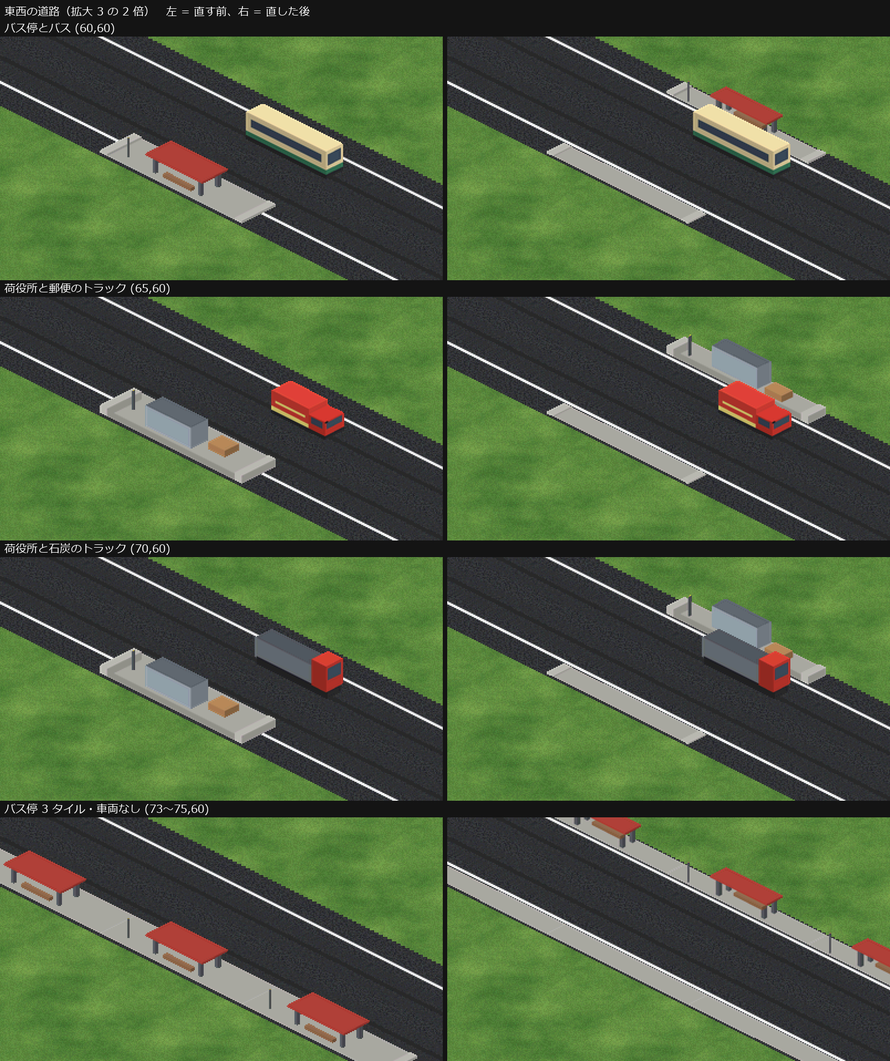
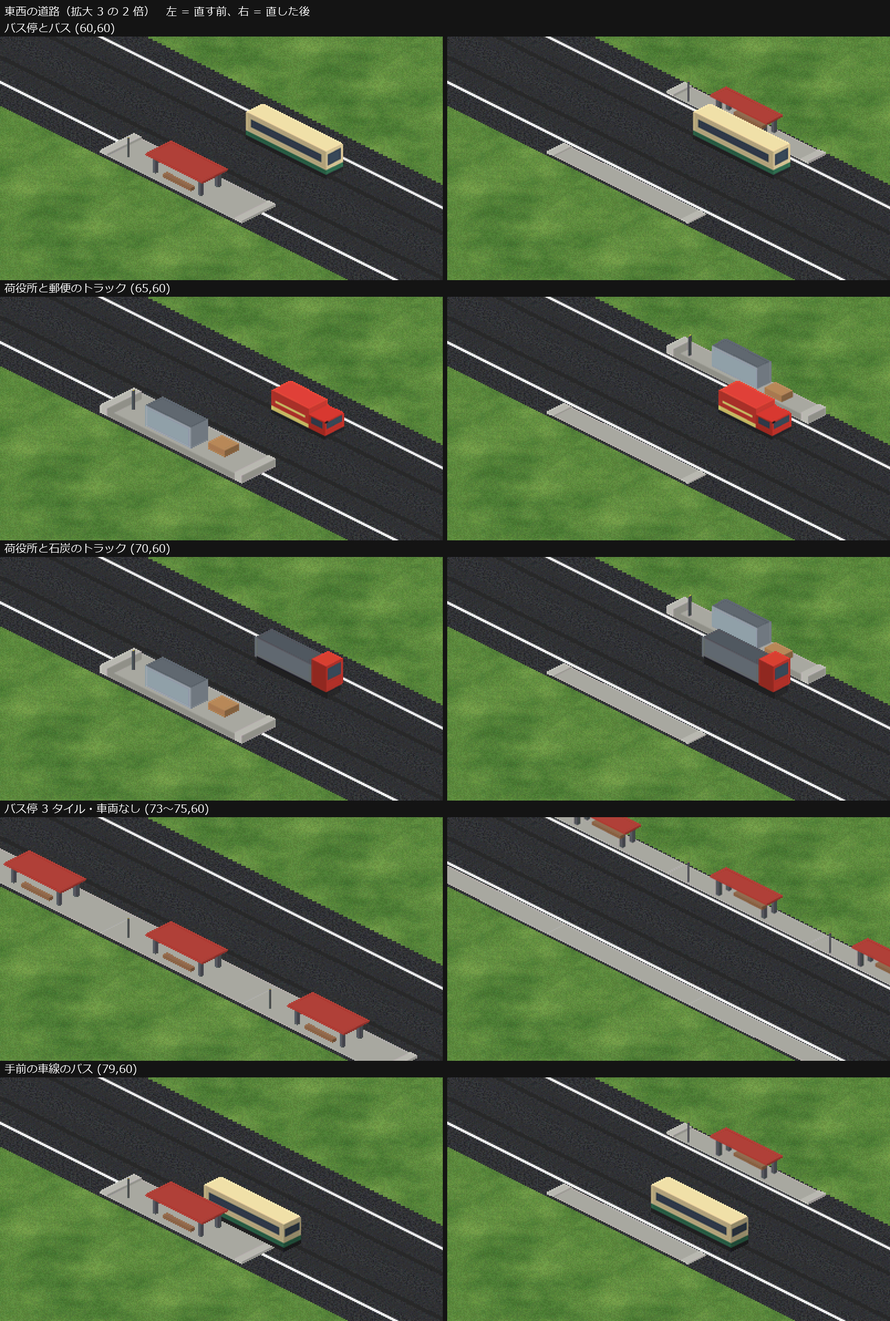
#115 の確かめに、手前の車線の車両と白線の画素の数えを足し、文書をそろえる

diff --git a/docs/records/2026-11-26_stop-overlap-screens/run.py b/docs/records/2026-11-26_stop-overlap-screens/run.py
@@ -2,6 +2,7 @@
 
 温帯（x<256）の平らな地図に、東西の道路と南北の道路を敷き、それぞれにバス停 1 つと荷役所 2 つを置いて、
 バス・郵便のトラック・石炭のトラックを、ダイヤの積載の待ち 100% で停めて撮る。車両を停めない 3 タイル続きの停留所も撮る。
+手前の車線にも停まるように、反対の端の車庫から西行き・南行きのバスを 1 台ずつ出す（左側通行）。
 
 使い方: python -X utf8 run.py <検証環境> <ポート> <出力フォルダ>
 """
@@ -37,6 +38,7 @@ os.makedirs(a.out, exist_ok=True)
 ROAD = "ami_road_local"
 EY = 60          # 東西の道路の y（x=52〜76）
 NX = 90          # 南北の道路の x（y=50〜74）
+NEAR_X, NEAR_Y = 79, 46  # 手前の車線に停めるバス停（東西の道路の x、南北の道路の y）
 # (停留所, 車両, 東西の道路の x, 南北の道路の y)。車庫から遠い停留所から先に出す
 PLAN = [
     ("pak256_truck_stop", "pak256_coal_truck", 70, 56),
@@ -75,8 +77,8 @@ def shot(g, name, x, y, zoom=3):
 
 
 with Game(a.env, "flat_512_left_v64", a.port) as g:
-    print("[way]", g.road(52, EY, 76, EY, ROAD))
-    print("[way]", g.road(NX, 50, NX, 74, ROAD))
+    print("[way]", g.road(52, EY, 84, EY, ROAD))
+    print("[way]", g.road(NX, 42, NX, 74, ROAD))
     for stop, _, x, y in PLAN:
         print("[stop]", stop, g.station(x, EY, stop), g.station(NX, y, stop))
     # 車両を停めない 3 タイル続きの停留所（中ほどと端の絵を見る）
@@ -89,6 +91,13 @@ with Game(a.env, "flat_512_left_v64", a.port) as g:
         convoy(g, ew_depot, (x, EY), (53, EY), veh)
         convoy(g, ns_depot, (NX, y), (NX, 73), veh)
         g.settle(3)
+    # 手前の車線に停める編成（西行きは南の車線、南行きは東の車線）
+    print("[stop]", g.station(NEAR_X, EY, "pak256_bus_stop"), g.station(NX, NEAR_Y, "pak256_bus_stop"))
+    ew_far_depot, ns_far_depot = (83, EY + 1), (NX + 1, 43)
+    depot(g, (83, EY), ew_far_depot)
+    depot(g, (NX, 43), ns_far_depot)
+    convoy(g, ew_far_depot, (NEAR_X, EY), (84, EY), "pak256_bus")
+    convoy(g, ns_far_depot, (NX, NEAR_Y), (NX, 42), "pak256_bus")
     g.settle(30)
     print("[convoys]", g.sq('local s=""; foreach (cv in world.get_convoy_list()) { local p=cv.get_pos(); '
                             's += cv.get_name()+"@"+p.x+","+p.y+" v="+cv.get_speed()+"; "; } return s'))
@@ -102,3 +111,5 @@ with Game(a.env, "flat_512_left_v64", a.port) as g:
     shot(g, "ns_bus.png", NX, 66)
     shot(g, "ew_empty.png", 74, EY)
     shot(g, "ns_empty.png", NX, 51)
+    shot(g, "ew_near.png", NEAR_X, EY)
+    shot(g, "ns_near.png", NX, NEAR_Y)

diff --git a/docs/records/2026-11-26_stop-overlap-screens/compare.py b/docs/records/2026-11-26_stop-overlap-screens/compare.py
@@ -15,8 +15,8 @@ os.makedirs(out, exist_ok=True)
 font = ImageFont.truetype("meiryo.ttc", 20)
 
 SHEETS = {
-    "ew_road_z3.png": ("東西の道路（拡大 3 の 2 倍）", [("ew_bus", "バス停とバス (60,60)"), ("ew_mail", "荷役所と郵便のトラック (65,60)"), ("ew_coal", "荷役所と石炭のトラック (70,60)"), ("ew_empty", "バス停 3 タイル・車両なし (73〜75,60)")]),
-    "ns_road_z3.png": ("南北の道路（拡大 3 の 2 倍）", [("ns_bus", "バス停とバス (90,66)"), ("ns_mail", "荷役所と郵便のトラック (90,61)"), ("ns_coal", "荷役所と石炭のトラック (90,56)"), ("ns_empty", "荷役所 3 タイル・車両なし (90,50〜52)")]),
+    "ew_road_z3.png": ("東西の道路（拡大 3 の 2 倍）", [("ew_bus", "バス停とバス (60,60)"), ("ew_mail", "荷役所と郵便のトラック (65,60)"), ("ew_coal", "荷役所と石炭のトラック (70,60)"), ("ew_empty", "バス停 3 タイル・車両なし (73〜75,60)"), ("ew_near", "手前の車線のバス (79,60)")]),
+    "ns_road_z3.png": ("南北の道路（拡大 3 の 2 倍）", [("ns_bus", "バス停とバス (90,66)"), ("ns_mail", "荷役所と郵便のトラック (90,61)"), ("ns_coal", "荷役所と石炭のトラック (90,56)"), ("ns_empty", "荷役所 3 タイル・車両なし (90,50〜52)"), ("ns_near", "手前の車線のバス (90,46)")]),
 }
 for name, (title, rows) in SHEETS.items():
     w, h = (BOX[2] - BOX[0]) * SCALE, (BOX[3] - BOX[1]) * SCALE

diff --git a/docs/records/2026-11-26_stop-overlap-screens/lines.py b/docs/records/2026-11-26_stop-overlap-screens/lines.py
@@ -1,0 +1,30 @@
+"""run.py の画面で、白線が停留所に隠れていないかを列ごとに数える（#115）。MIT License。Pillow が要る。
+
+道路を横切る列を 1px ずつ調べ、白（RGB がすべて 200 超）の縦の連なりが「2px が 2 本、上端の差 86px」の列を数える。
+車両のいない ew_empty.png・ns_empty.png に使う。
+使い方: python -X utf8 lines.py <画面の PNG> ...
+"""
+import sys
+
+from PIL import Image
+
+X0, X1 = 600, 1000  # 停留所 3 タイルが入る列の範囲（画面の中心 800 の左右）
+
+for path in sys.argv[1:]:
+    im = Image.open(path).convert("RGB")
+    px = im.load()
+    ok, bad = 0, []
+    for x in range(X0, X1):
+        runs, y = [], 48
+        while y < 876:
+            if min(px[x, y]) > 200:
+                s = y
+                while y < 876 and min(px[x, y]) > 200:
+                    y += 1
+                runs.append((s, y - s))
+            y += 1
+        if len(runs) == 2 and all(n == 2 for _, n in runs) and runs[1][0] - runs[0][0] == 86:
+            ok += 1
+        else:
+            bad.append((x, runs))
+    print(f"{path}: 白線 2 本がそのままの列 {ok}/{X1 - X0}", bad[:4])

diff --git a/docs/records/2026-11-26_stop-overlap.md b/docs/records/2026-11-26_stop-overlap.md
@@ -13,17 +13,19 @@
 ## 確かめ
 
 - `tools/test_stations.py` の `test_road_stops_off_the_lane_lines`: 停留所の 2 層 × 8 向きの絵の画素を地面の座標に戻し、c = 0.156〜0.844 に画素が無いことを検査する。直す前の PNG では落ちる。
-- ゲーム: `python -X utf8 docs/records/2026-11-26_stop-overlap-screens/run.py <検証環境> <ポート> <撮る先>` で、東西の道路（y=60）と南北の道路（x=90）に、バス停・荷役所 2 つを置いてバス・郵便・石炭のトラックを積載の待ち 100% で停め（6 編成とも速度 0）、車両を停めない 3 タイル続きの停留所も置いた。直す前の PNG と直した後の PNG をそれぞれ組んで同じ配置を撮り、`compare.py` で同じ位置を切り抜いて 2 倍にした。
+- ゲーム: `python -X utf8 docs/records/2026-11-26_stop-overlap-screens/run.py <検証環境> <ポート> <撮る先>` で、東西の道路（y=60）と南北の道路（x=90）に、バス停・荷役所 2 つを置いてバス・郵便・石炭のトラックを積載の待ち 100% で停め、車両を停めない 3 タイル続きの停留所も置いた。手前の車線は、反対の端の車庫から西行き・南行きのバスを 1 台ずつ出してバス停に停めた（8 編成とも速度 0）。直す前の PNG と直した後の PNG をそれぞれ組んで同じ配置を撮り、`compare.py` で同じ位置を切り抜いて 2 倍にした。
   - 東西の道路: ![東西](2026-11-26_stop-overlap-screens/ew_road_z3.png)
   - 南北の道路: ![南北](2026-11-26_stop-overlap-screens/ns_road_z3.png)
 - 見た点:
   - 直した後は、バス停・荷役所とも、東西・南北のどちらでも、歩道・待合・小屋が白線に掛からず、白線は端から端まで見える。
   - 3 タイル続きでは、帯は切れ目なくつながる。
-  - 停まった車両は奥の車線にいるため（左側通行で東・北へ走る）、待合・小屋の下側は車両の陰になる。屋根の上の部分は見える。
+  - 奥の車線に停まった車両（左側通行の東行き・北行き）の陰で、待合・小屋の下側が隠れる。屋根の上の部分は見える。
+  - 手前の車線に停まった車両（西行き・南行き）は、手前の歩道の帯と重ならない。直す前は、手前の待合の屋根がこの車両に掛かっていた。
+- 白線の確かめ: 車両のいない 3 タイル続きの画面で、`lines.py` が列ごとに白線を数えた（停留所の付近の 400 列。2px の白が 2 本、間隔がそのままの列）。直す前は東西 58・南北 147、直した後は東西 399・南北 400。東西の残り 1 列は、2 本とは別の 1px の明るい画素がある列で、2 本の白線はある。
 
 ## 確かめていないこと
 
-- 手前の車線に停まった車両と、手前の歩道の帯の重なり（撮った車両はすべて奥の車線。帯は高さ 0.15m で車線の外なので、重ならない見込み）。
+- 手前の車線のトラック（手前の車線で撮ったのはバスだけ）。
 - `ami_road_local` 以外の道路の種類の白線の位置。
 - 雪の気候、坂、地下の停留所、拡大 3 以外。
 - ツールバーの道具の絵のゲーム内の見た目（絵の検査だけ）。

diff --git a/docs/stations.md b/docs/stations.md
@@ -72,6 +72,7 @@ AMI の `ami_road_bus_stop`・`ami_road_truck_stop` は、AMI の `ami_road.pak`
 
 - 絵は後ろ（車の下）と前（車の上）に分ける。シートは 8 列（向き）× 3 行（0 行 = 後ろ、1 行 = 前、2 行 = 道具の絵）。セルの名前は `<名前>.<行>.<列>`。
 - 線路そのものは描かない（線路は AMI が持つ）。線路はタイルの中央を通ると見て、見える側（右下か左下）の脇にホームを置いた。
+- 道路の停留所の道具の絵は、後ろ（奥の側）の絵だけから作る（手前の歩道まで入れると小さくなる。#115）。下の重ね方は線路の駅の物。
 - 道具の絵（`icon`）は、2 行 0 列のセルの左上の角に置いた 192px の角丸の四角（地の色に、向き 0 の後ろと前を重ねた駅の絵を収めたもの。`draw_stops.py` の `tool_icon`）。192px にしたのは、本体がアイコンを `icon_height`（48）に収まる最大の倍率（192 なら 1/4 でちょうど 48）で縮めるため。四角を左上の角から隙間なく置くのは、絵に透明な所があると本体が見える範囲だけを縮めて置くため、枠がずれて灰色の空きに見えたからで、これが線路・道路のツールバーの灰色のアイコンだった（[#71](https://github.com/128-bit-net/pak256/issues/71)。記録は [records/2026-11-25_rail-leftovers.md](records/2026-11-25_rail-leftovers.md)）。`cursor` は書かない（置くときのカーソルが出るかは未確認）。
 
 # 道路の車庫（AMI の物）
